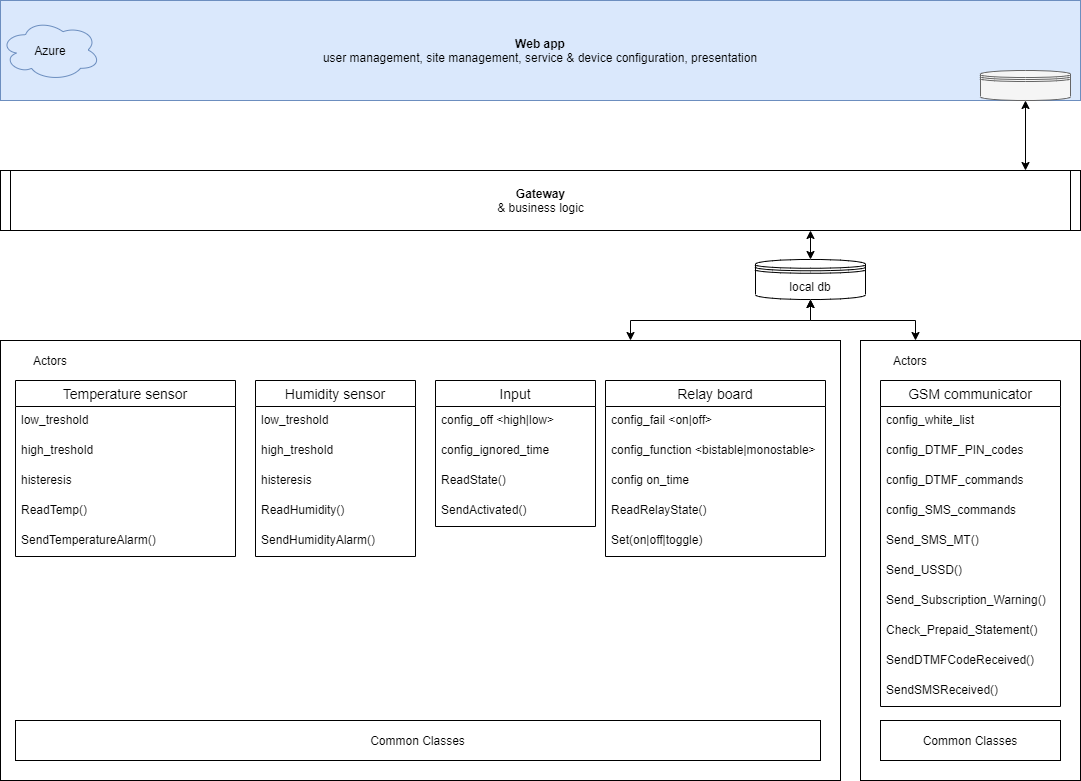
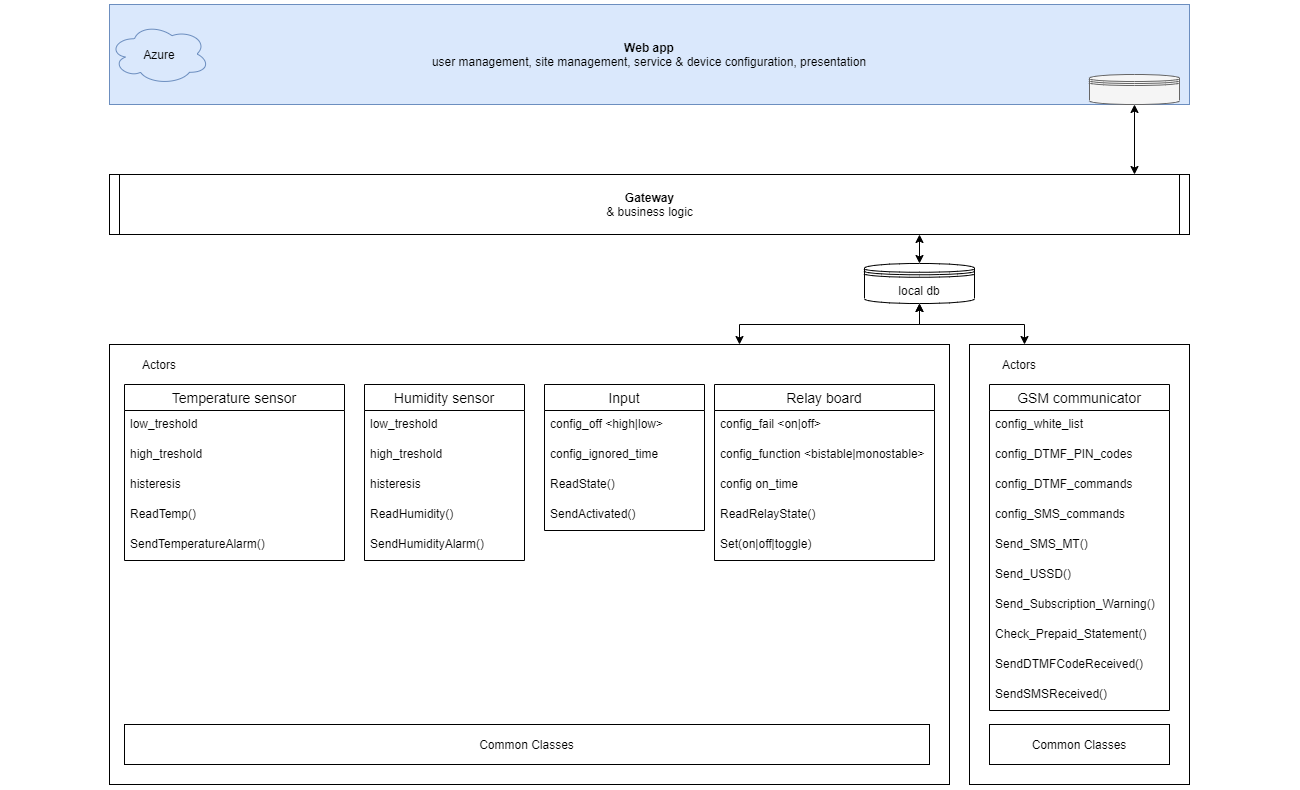
Update readme.md and pictures.

diff --git a/README.md b/README.md
@@ -1,12 +1,75 @@
 # Home Automation
 
-This will be IoT Application.  
-Readme is little behind the code, as I'm currently focused on the latter.
+## In short
+
+The *Home Automation System* is IoT project designed as an extension of existing subsystems, such as alarm system, access control, garden irrigation system, etc. However, the functionality of the *Home Automation System* allows the implementation of some tasks of these subsystems, e.g. the door will be opened not with an RFID card, but via SMS or DTMF codes, or the system inputs can be used to signal an intrusion.
+The *Home Automation System* is designed to integrate the subsystems and take home management and monitoring capabilities to a higher level.
+
+## Components
+
+The system consists of devices and an application. Management and monitoring is to take place via a web application located in the Azure cloud. Hardware modules are integrated on the Raspberry Pi microcomputer.
+
+## Project status as of today
+
+- the hardware platform is running
+- the skeleton of the Raspberry Pi application works
+- electronic modules are integrated: GSM, LCD, input and relay outputs
+- Azure and local database (MariaDb) work
+- web application runs on Azure
+- data is downloaded from the temperature sensor
+- data is downloaded from the weather service.
+
+As you can see, this is an incipient stage, but the feasibility is already proven and the hardware and core software modules have been integrated. It is a hobby project, which will probably be extended in time, and functionalities will be launched according to the developer's own needs ;)
+
+## Technologies used
+
+### Programming languages
+
+- C#
+- JavaScript
+- HTML/CSS
+
+### Frameworks
+
+- .NET Core with Identity
+- .NET Core MVC
+- Entity Framework
+- Azure Cloud
+
+### OS's
+
+- Windows
+- Linux (Debian/Raspbian)
+
+### Databases used
+
+There are two databases. One, local is used to store messages used internally by devices and to store messages routed periodically to/from Azure. It allows system to operate without Internet connecion. Azure is used by web application.
+
+- MariaDb on the Raspberry Pi
+- MS SQL on Azure
+
+### Hardware
+
+- Raspberry Pi4 2GB
+- GSM module
+- Relay module with two relays
+- Temperature sensor DS1820
+- microswitches for simulating digital inputs
+- soil humidity sensor
+- LCD 2x16 characters
+- i2c bus converter
+- SSD (as boot disk)
 
 ## Application diagram
+
+The *Home Automation System* consists of web application where users can manage their system and present stored data.  
+Another set apps run on Linux as daemons. They manage devices, synchronise local/Azure data, and implement business logic.
 
 ![AppDiagram](AppModules.png)
 
 ## Development board view
 
 ![DevBoard](RPiDevBoard.png)
+
+---
+If you want ask a question, visit my [home page](https://www.adameczek.pl) where contact info can be found :)
